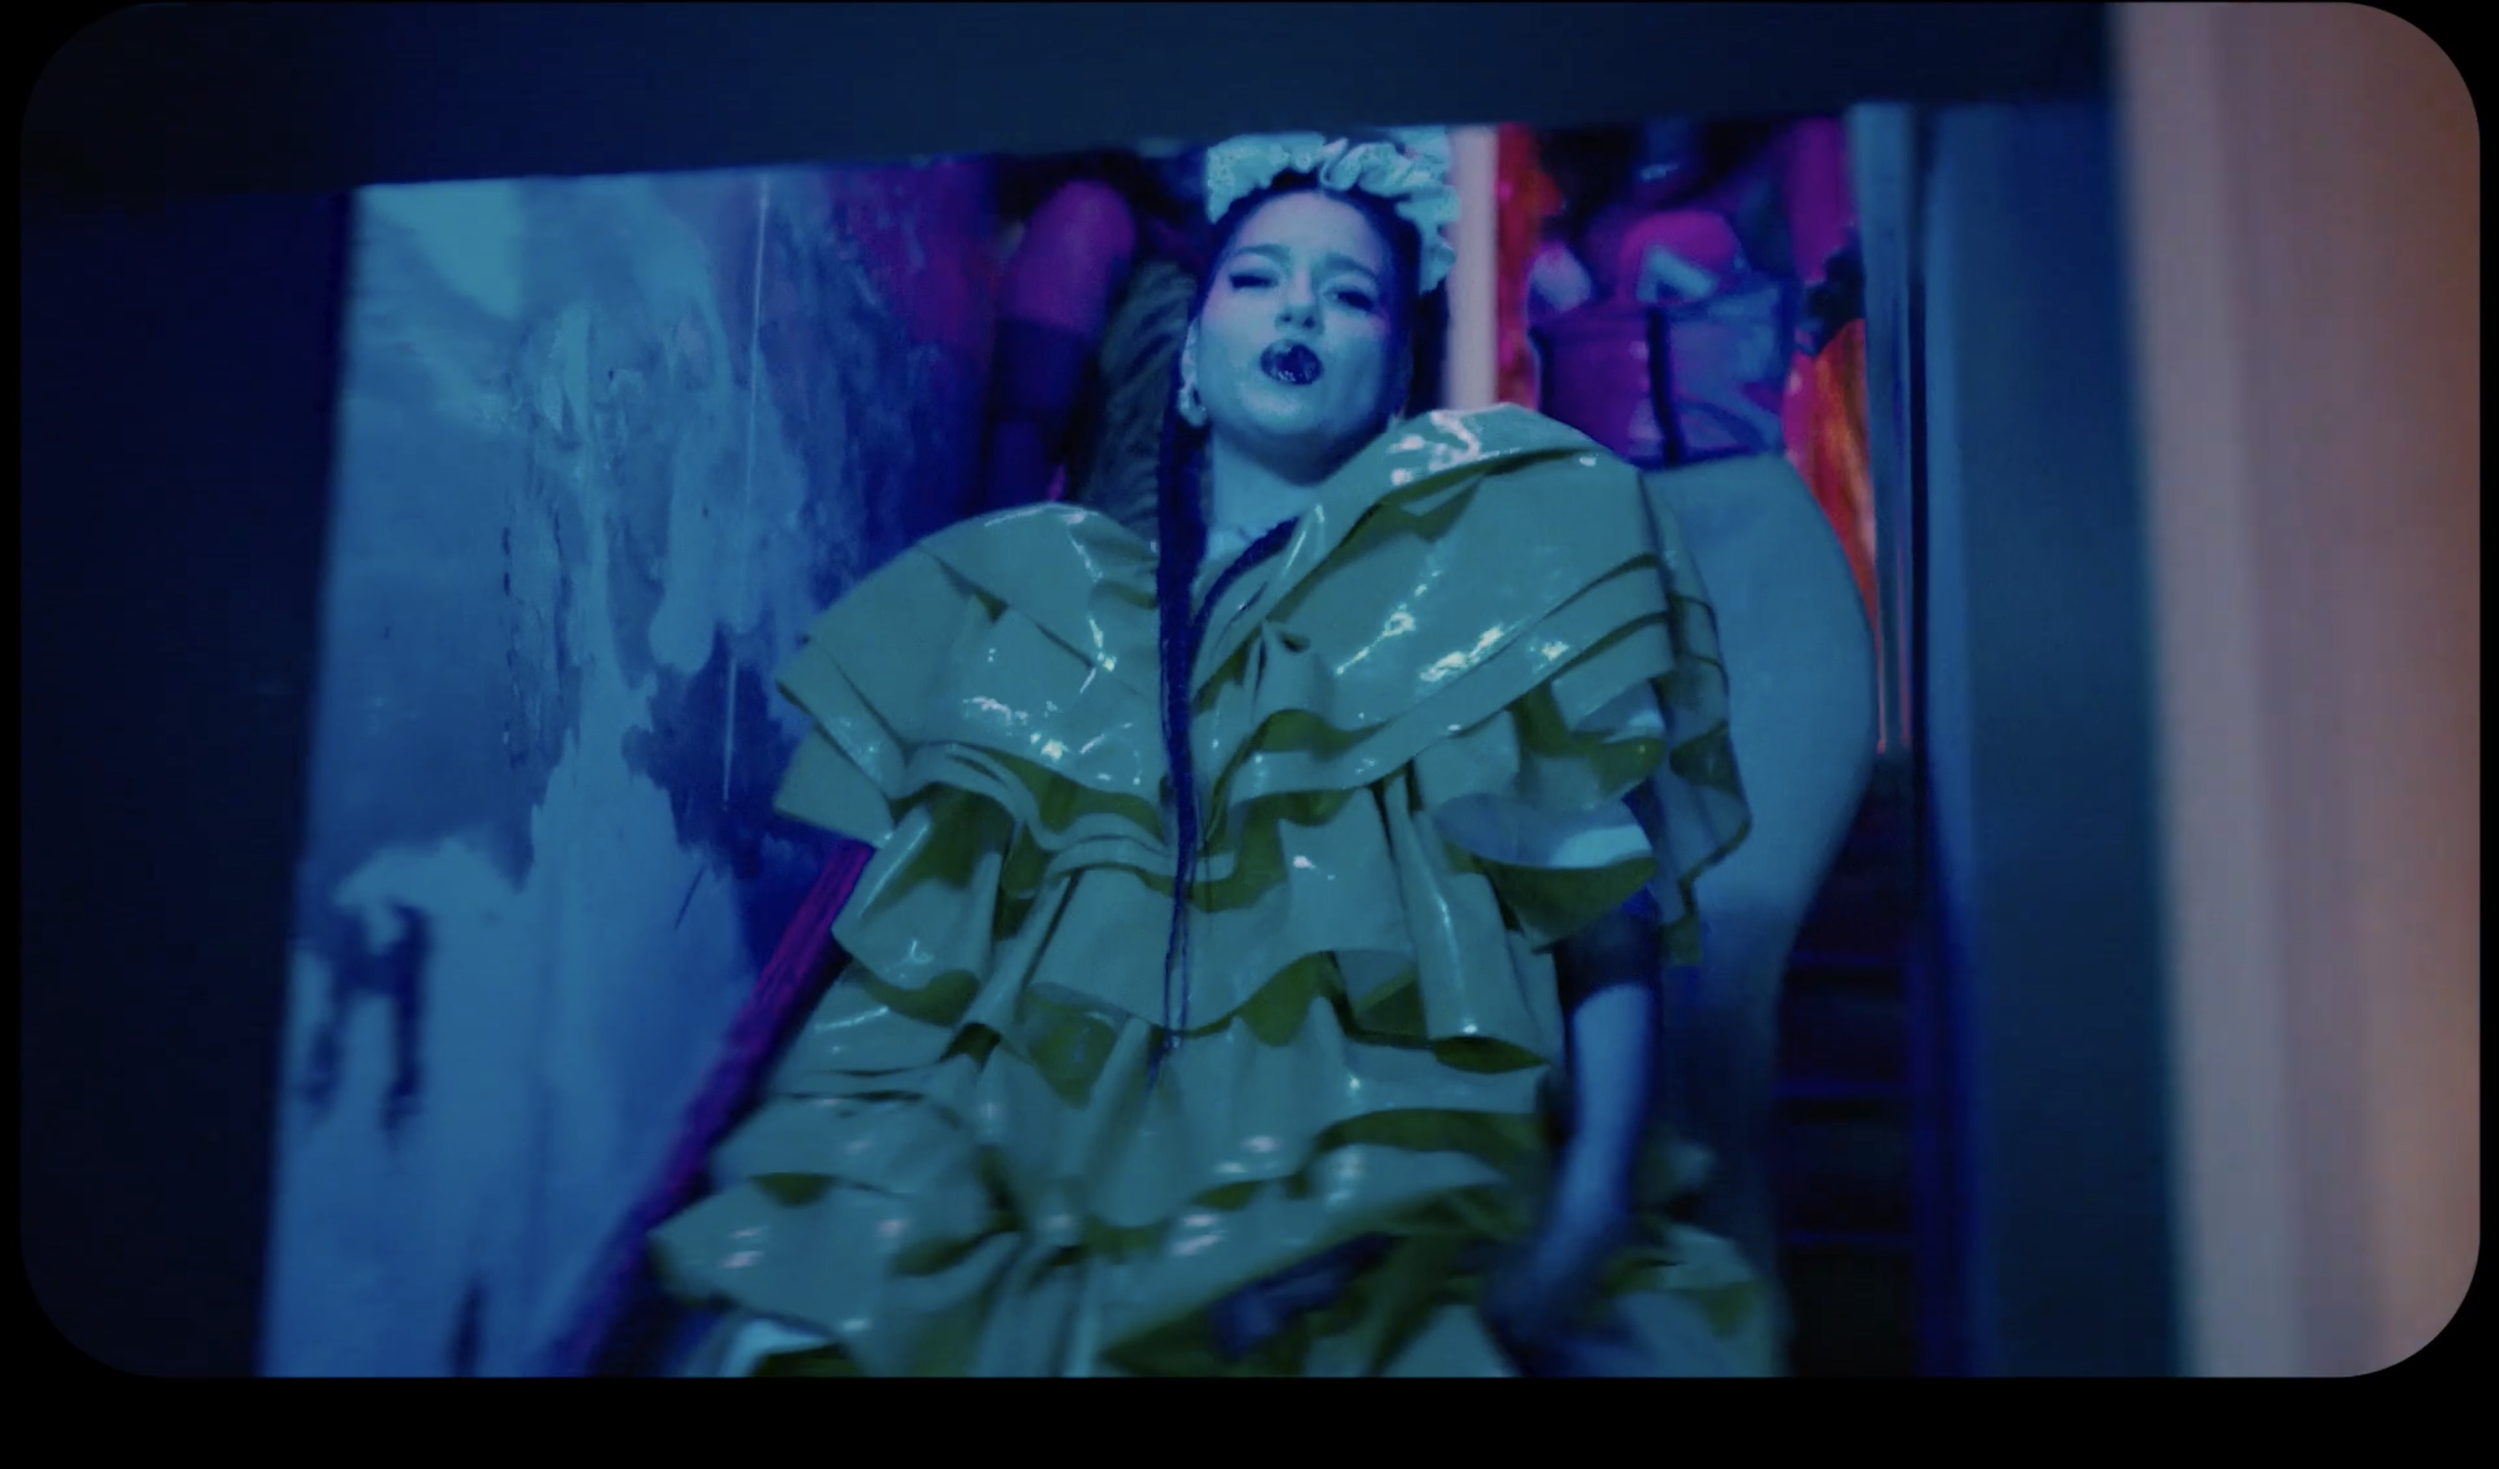
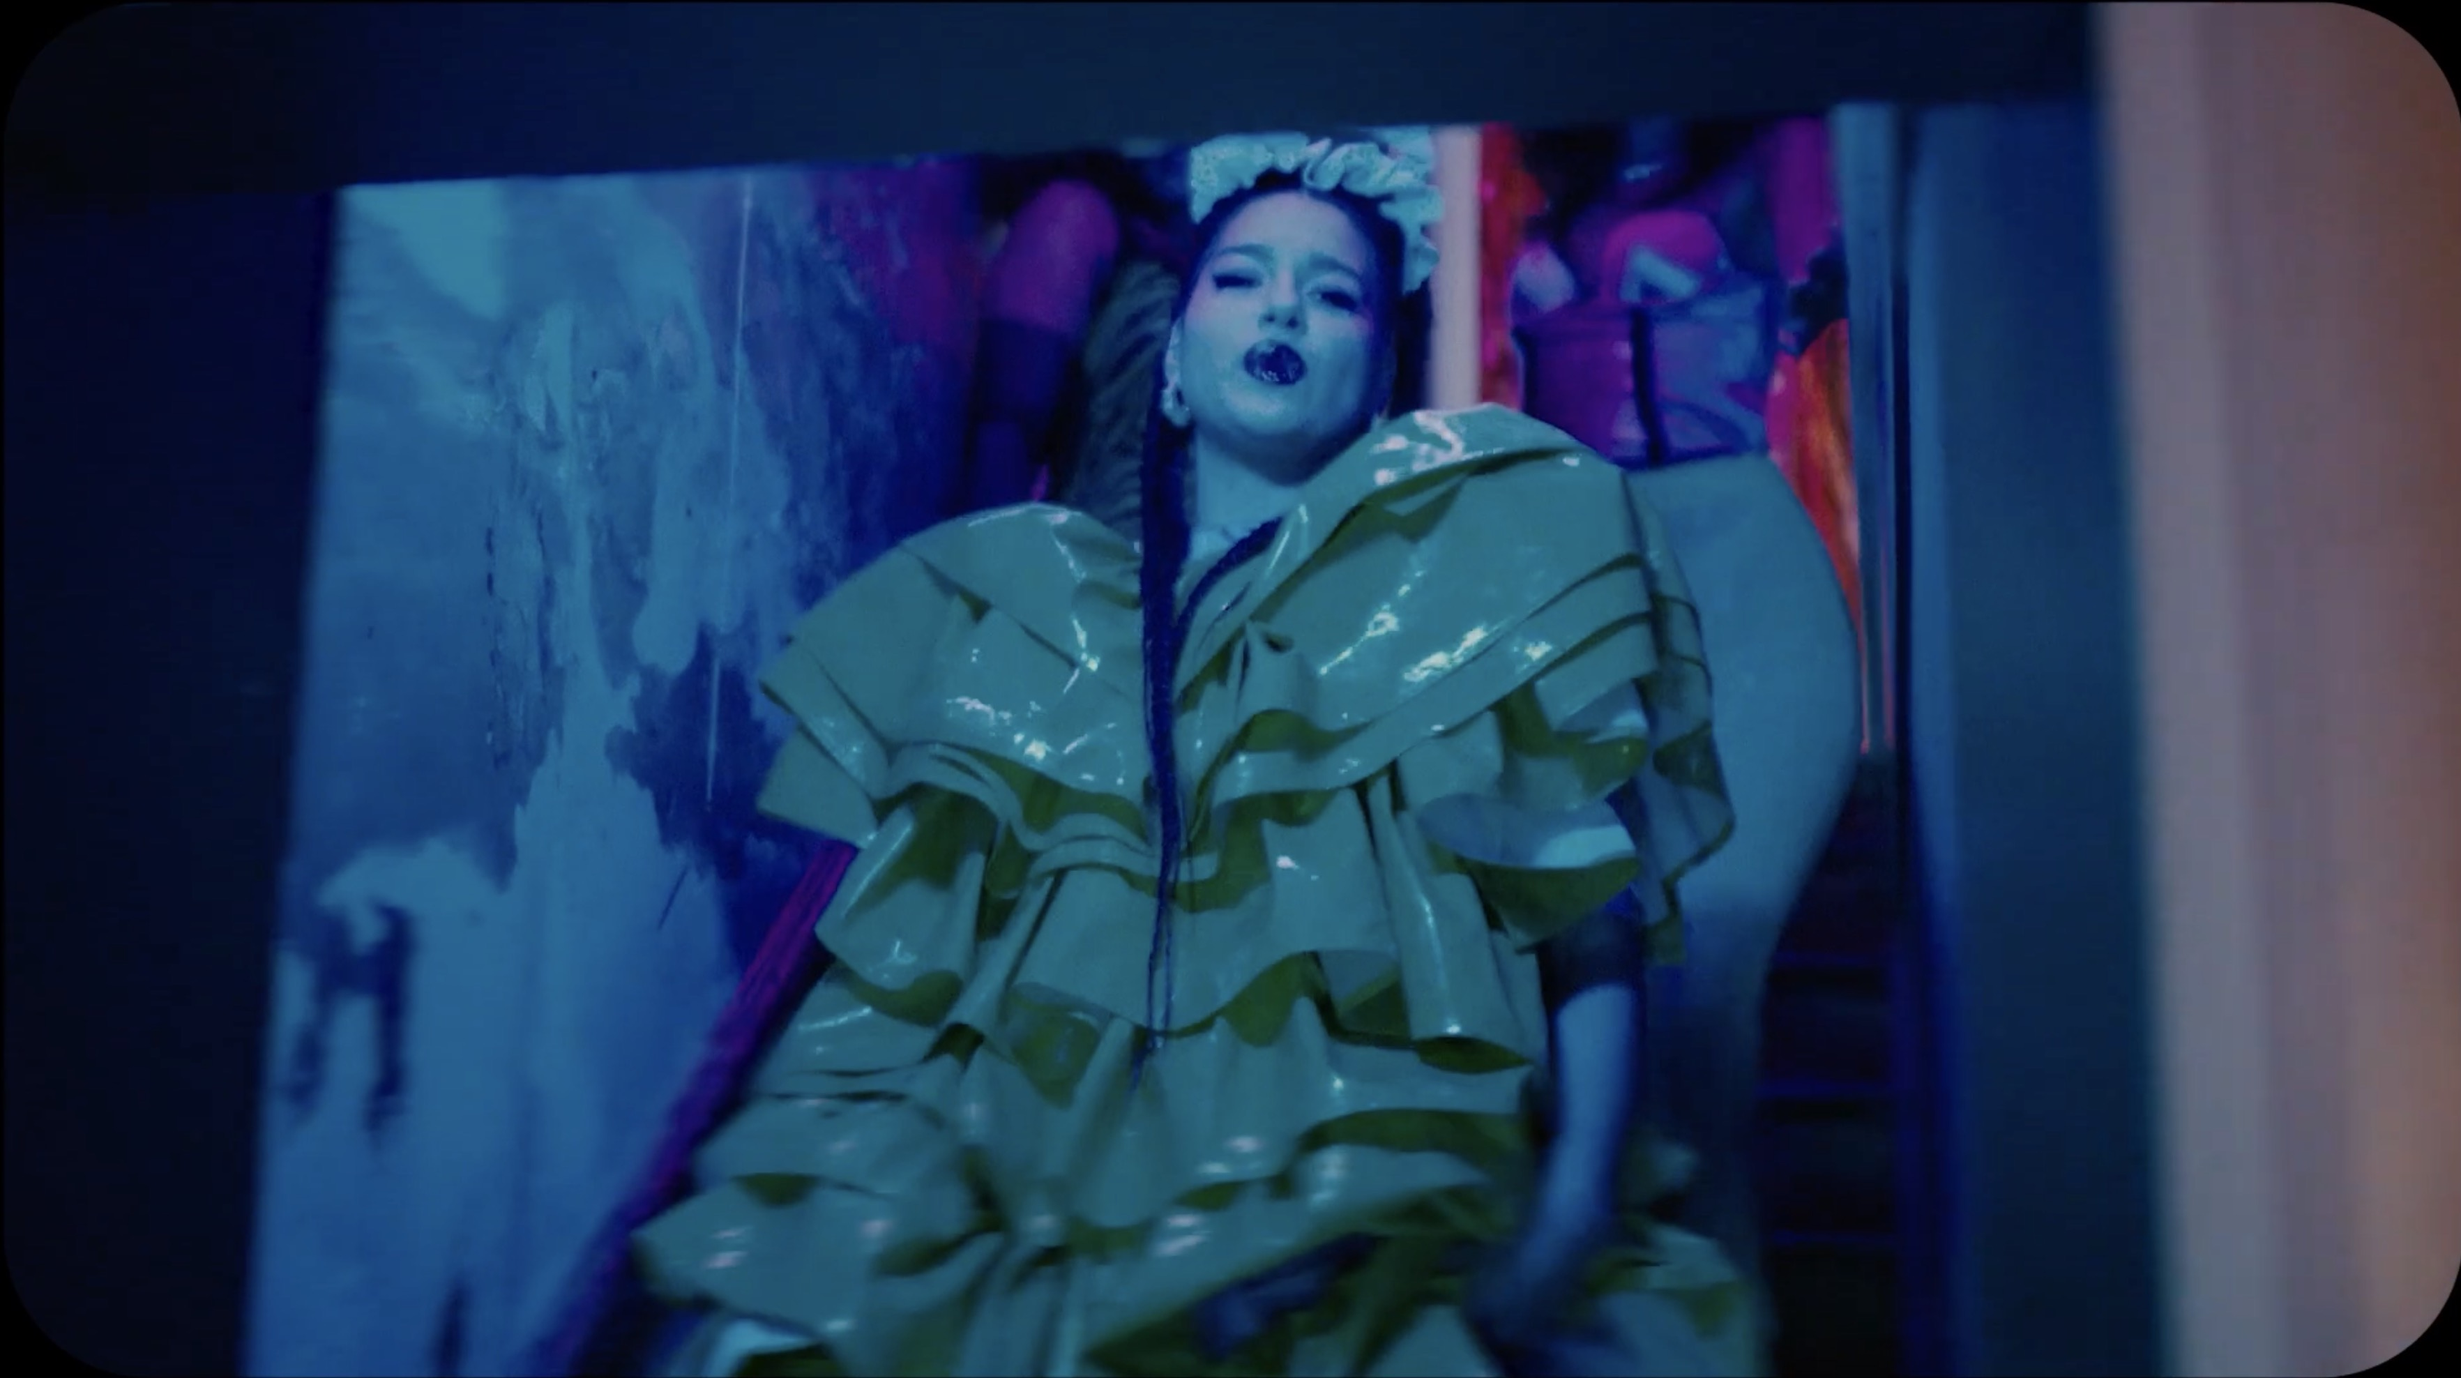
lo-res posters

diff --git a/scripts/main.js b/scripts/main.js
@@ -7,7 +7,7 @@ const howManyVids2 = adverts.length;
 console.log("There are " + howManyVids + " musicvids");
 console.log("There are " + howManyVids2 + " adverts");
 
-// clone 1st grid-item node (with children) x howManyVids and append all clones to grid 
+// clone 1st grid-item node (with children) x howManyVids and append all clones to grid
 
 for (i = 1; i < howManyVids; i++) {
     let clone = gridItem.cloneNode(true);
@@ -32,7 +32,7 @@ const gridItems2 = document.querySelectorAll(`.grid-item2`);
 gridVids.forEach(addSrcAndTitle);
 function addSrcAndTitle(item, index) {
     gridVids[index].src = "vids/" + musicvids[index] + ".mp4";
-    gridVids[index].poster = "poster/" + musicvids[index] + ".jpg";
+    gridVids[index].poster = "poster/z_webp/" + musicvids[index] + ".webp";
     overlays[index].innerHTML = musicvids[index];
 };
 
@@ -43,7 +43,7 @@ function addSrcAndTitle2(item, index) {
     overlays2[index].innerHTML = adverts[index];
 };
 
-// Hover 
+// Hover
 
 overlays.forEach(playOnHover);
 function playOnHover(item, index) {

diff --git a/scripts/adverts.js b/scripts/adverts.js
@@ -1,10 +1,10 @@
 const adverts = [
-    `KFC - The First Bite`,
-    `Samsung - Feel More, Move More`,
-    `Samsung - Feel More, Move More (Part 2)`,
-    `Squarespace - Make the Next Culinary Empire`,
-    `Squarespace - Make the Next Fashion Empire`,
-    `Squarespace - Make the Next Wellness Empire`,
-    `World of Wish - Get Lost In The Shop`,
-    `World of Wish - Get Ready for Real Smiles`,
+    `KFC - The First Bite`, // 960 x 540
+    `Samsung - Feel More, Move More`, // 1920 x 1080
+    `Samsung - Feel More, Move More (Part 2)`, // 1920 x 1080
+    `Squarespace - Make the Next Culinary Empire`, // 1920 x 1080
+    `Squarespace - Make the Next Fashion Empire`, // 1920 x 1080
+    `Squarespace - Make the Next Wellness Empire`,// 1920 x 1080
+    `World of Wish - Get Lost In The Shop`, // 1280 x 720
+    `World of Wish - Get Ready for Real Smiles`, // 1920 x 1080
 ];

diff --git a/scripts/musicvids.js b/scripts/musicvids.js
@@ -1,10 +1,10 @@
 const musicvids = [
-    `black midi - Sugar Tzu`,
-    `Bring Me The Horizon - sTraNgeRs`,
-    `Def Leppard - Kick`,
-    `Desta French - Bendecida`,
-    `Lava La Rue - Hi-Fidelity Ft. Biig Piig`,
-    `Noel Gallaghers High Flying Birds - Easy Now`,
-    `Priya Ragu - Illuminous`,
-    `Sudan Archives - NBPQ (Topless)`,
+    `black midi - Sugar Tzu`, // 1440 x 1080
+    `Bring Me The Horizon - sTraNgeRs`, // 1440 x 1080
+    `Def Leppard - Kick`, // 1920 x 1080
+    `Desta French - Bendecida`, // 1920 x 1080
+    `Lava La Rue - Hi-Fidelity Ft. Biig Piig`, // 1920 x 1080
+    `Noel Gallaghers High Flying Birds - Easy Now`, // 1440 x 1080
+    `Priya Ragu - Illuminous`, // 1920 x 1080
+    `Sudan Archives - NBPQ (Topless)`, // 1920 x 1080
 ];
